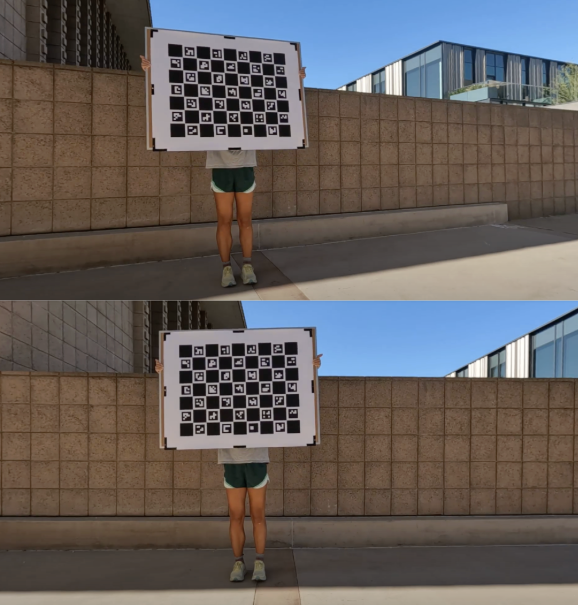
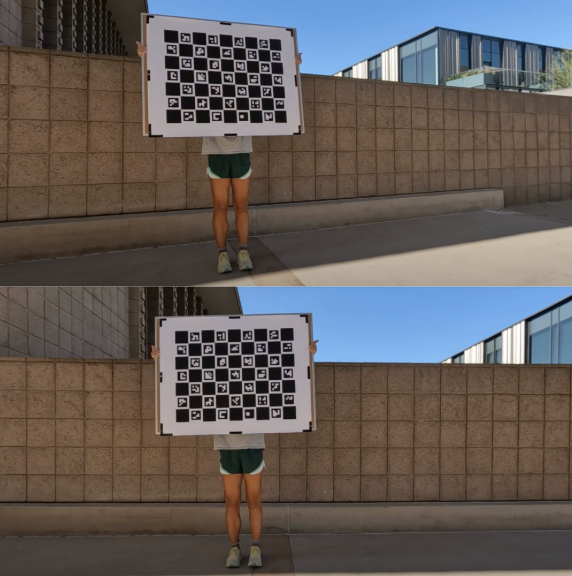
Built site for gh-pages

diff --git a/index.html b/index.html
@@ -181,7 +181,7 @@ ul.task-list li input[type="checkbox"] {
 <div class="experience-image">
 <p><img src="images/clinicpresentation.jpg" class="img-fluid"></p>
 <div class="image-caption">
-<p>Me and my team mate next to our poster board during Clinic Presentation Day</p>
+<p>Me and my teammate next to our poster board during Clinic Presentation Day</p>
 </div>
 </div>
 <section id="amazon-lab126" class="level3">
@@ -248,7 +248,7 @@ ul.task-list li input[type="checkbox"] {
 <div class="experience-image">
 <p><img src="images/hammer.jpg" class="img-fluid"></p>
 <div class="image-caption">
-<p>My hammer that all Engineers make and that machine shop proctors instruct</p>
+<p>Holding the E4 hammer</p>
 </div>
 </div>
 <section id="harvey-mudd-college-machine-shop" class="level3">
@@ -270,7 +270,7 @@ ul.task-list li input[type="checkbox"] {
 <div class="experience-image">
 <p><img src="images/LAIRhero.jpg" class="img-fluid"></p>
 <div class="image-caption">
-<p>Me holding the customized checkerboard we used during camera calibration.</p>
+<p>Calibrating the cameras</p>
 </div>
 </div>
 <section id="harvey-mudd-college-lab-for-autonomous-and-intelligent-robotics-lair" class="level3">
@@ -295,7 +295,7 @@ ul.task-list li input[type="checkbox"] {
 <div class="experience-image">
 <p><img src="images/TPhero.jpg" class="img-fluid"></p>
 <div class="image-caption">
-<p>Your tiny caption text here</p>
+<p>Rendering of our CAD model</p>
 </div>
 </div>
 <section id="microplastic-detector" class="level3">
@@ -318,7 +318,7 @@ ul.task-list li input[type="checkbox"] {
 <div class="experience-image">
 <p><img src="images/cpshero.jpg" class="img-fluid"></p>
 <div class="image-caption">
-<p>Your tiny caption text here</p>
+<p>The device recognizing a door handle and deploying fabric</p>
 </div>
 </div>
 <section id="door-handle-hero" class="level3">
@@ -330,9 +330,8 @@ ul.task-list li input[type="checkbox"] {
 <p>October - November 2025</p>
 </div>
 <ul>
-<li>Co-supervised up to 12 students per shift in a student-run machine shop, ensuring safety, efficiency, and adherence to proper machining protocols</li>
-<li>Instructed students on how to properly use machines such as the mill, lathe, and vertical band saw for coursework and individual projects</li>
-<li>Mentored 50 engineering students in the making of a hammer for the required Engineering and Design course every semester</li>
+<li>Designed</li>
+<li></li>
 </ul>
 <p><a href="CPS.html" class="learn-more-button">Learn More →</a></p>
 </section>
@@ -341,7 +340,7 @@ ul.task-list li input[type="checkbox"] {
 <div class="experience-image">
 <p><img src="images/fundamentalshero.jpg" class="img-fluid"></p>
 <div class="image-caption">
-<p>Your tiny caption text here</p>
+<p>Final rendering of our product on a nightstand</p>
 </div>
 </div>
 <section id="somnia-sleep-collection" class="level3">
@@ -353,7 +352,7 @@ ul.task-list li input[type="checkbox"] {
 <p>September - October 2025</p>
 </div>
 <ul>
-<li>Established end-to-end workflow in DeepLabCut to extrapolate data from recording skateboarders using 3D calibration</li>
+<li></li>
 <li>Performed inverse dynamics to measure kinematic forces exerted on joints for a final research report from the acquired data</li>
 </ul>
 <p><a href="IDEFundamentals.html" class="learn-more-button">Learn More →</a></p>
@@ -363,7 +362,7 @@ ul.task-list li input[type="checkbox"] {
 <div class="experience-image">
 <p><img src="images/e171hero.jpg" class="img-fluid"></p>
 <div class="image-caption">
-<p>Your tiny caption text here</p>
+<p>N-DOF system model</p>
 </div>
 </div>
 <section id="bladed-disk-simulation" class="level3">
@@ -384,9 +383,9 @@ ul.task-list li input[type="checkbox"] {
 </div>
 <div class="experience-item">
 <div class="experience-image">
-<p><img src="images/CityOfHope.JPG" class="img-fluid"></p>
+<p><img src="images/LCAhero.jpg" class="img-fluid"></p>
 <div class="image-caption">
-<p>Your tiny caption text here</p>
+<p>Life Cycle Analysis model</p>
 </div>
 </div>
 <section id="life-cycle-analysis-of-grand-and-electric-pianos" class="level3">
@@ -398,9 +397,8 @@ ul.task-list li input[type="checkbox"] {
 <p>March 2024 - May 2024</p>
 </div>
 <ul>
-<li>Decreased workflow time by 50% by developing python script to convert information from an audio file to 3D human models</li>
-<li>Improved the spatial audio performance of the Echo by simulating human trajectories in model rooms to observe sound flow</li>
-<li>Led a team of three students, coordinated weekly liaison meetings, managed project reporting, and delivered impactful presentations to stakeholders</li>
+<li>Used production software SimaPro to create manufacutring and use trees and LCAs</li>
+<li>Gained a deeper understanding of designing for sustainability</li>
 </ul>
 <p><a href="PianoLCA.html" class="learn-more-button">Learn More →</a></p>
 </section>
@@ -409,7 +407,7 @@ ul.task-list li input[type="checkbox"] {
 <div class="experience-image">
 <p><img src="images/e80hero.jpg" class="img-fluid"></p>
 <div class="image-caption">
-<p>My teammates with our final AUV during deployment at Dana Point.</p>
+<p>My teammates with our final AUV during deployment at Dana Point</p>
 </div>
 </div>
 <section id="autonomous-underwater-vehicle" class="level3">
@@ -421,9 +419,8 @@ ul.task-list li input[type="checkbox"] {
 <p>January 2022 - May 2022</p>
 </div>
 <ul>
-<li>Decreased workflow time by 50% by developing python script to convert information from an audio file to 3D human models</li>
-<li>Improved the spatial audio performance of the Echo by simulating human trajectories in model rooms to observe sound flow</li>
-<li>Led a team of three students, coordinated weekly liaison meetings, managed project reporting, and delivered impactful presentations to stakeholders</li>
+<li>Designed and built an Autonomous Underwater Vehicle (AUV) equipped with a pressure sensor, a temperature sensor, and a microphone</li>
+<li>Worked with a team of three other engineering students</li>
 </ul>
 <p><a href="E80.html" class="learn-more-button">Learn More →</a></p>
 </section>
@@ -432,7 +429,7 @@ ul.task-list li input[type="checkbox"] {
 <h2 data-anchor-id="contact">Contact</h2>
 <div class="contact-container">
 <div class="contact-content">
-<p>Thanks for stopping by! Let’s connect</p>
+<p>Thanks for stopping by. Let’s connect</p>
 <div class="contact-layout">
 <div class="contact-image">
 <p><img src="images/gradphoto.jpg" class="img-fluid"></p>
@@ -444,7 +441,7 @@ ul.task-list li input[type="checkbox"] {
 </div>
 <div class="contact-item">
 <p><strong>LinkedIn</strong></p>
-<p><a href="https://linkedin.com/in/claudinanez" target="_blank">linkedin.com/in/claudinanez</a></p>
+<p><a href="https://linkedin.com/in/claudiananez" target="_blank">linkedin.com/in/claudinanez</a></p>
 </div>
 </div>
 </div>
@@ -525,7 +522,7 @@ ul.task-list li input[type="checkbox"] {
     }
       var localhostRegex = new RegExp(/^(?:http|https):\/\/localhost\:?[0-9]*\//);
       var mailtoRegex = new RegExp(/^mailto:/);
-        var filterRegex = new RegExp('/' + window.location.host + '/');
+        var filterRegex = new RegExp("https:\/\/claudiananez\.github\.io\/My-Portfolio-Website\/");
       var isInternal = (href) => {
           return filterRegex.test(href) || localhostRegex.test(href) || mailtoRegex.test(href);
       }

diff --git a/motiv.html b/motiv.html
@@ -145,44 +145,35 @@ ul.task-list li input[type="checkbox"] {
 
 <section id="about-this-role" class="level2">
 <h2 class="anchored" data-anchor-id="about-this-role">About This Role</h2>
-<p>Motiv Electric Trucks (Now under the Workhorse name) is a leading manufacturer of medium-duty commercial all-electric trucks and buses. During the summer of 2023, I was a R&amp;D intern where I designed charging architecture incorporating electronic and mechanical elements for AC power distribution. During the development process, I leveraged design requirements and component library management while working on BOM development. Specifically, I gained experience in the PCB design and manufacturing process working with Altium Designer.</p>
-</section>
-<section id="project-gallery" class="level2">
-<h2 class="anchored" data-anchor-id="project-gallery">Project Gallery</h2>
-<div class="image-gallery">
+<p>Motiv Electric Trucks (Now under the Workhorse name) is a leading manufacturer of medium-duty commercial all-electric trucks and buses.</p>
+<p>During the summer of 2023, I was a R&amp;D intern where I designed charging architecture incorporating electronic and mechanical elements for AC power distribution.</p>
 <div class="quarto-figure quarto-figure-center">
 <figure class="figure">
-<p><img src="images/MotivLab.jpg" class="img-fluid figure-img"></p>
-<figcaption>Me Testing in the Lab</figcaption>
+<p><img src="images/motivrender.jpg" class="img-fluid figure-img"></p>
+<figcaption>Motiv render with arrows indicating location of dual power ports</figcaption>
 </figure>
 </div>
-<div class="quarto-figure quarto-figure-center">
-<figure class="figure">
-<p><img src="images/MotivPresenting.jpg" class="img-fluid figure-img"></p>
-<figcaption>Me presenting my final schematic to the team</figcaption>
-</figure>
-</div>
+<p>During the development process, I leveraged design requirements and component library management while working on the bill of materials development. Specifically, I gained experience in the PCB design and manufacturing process working with Altium Designer.</p>
 <div class="quarto-figure quarto-figure-center">
 <figure class="figure">
 <p><img src="images/PCB.jpg" class="img-fluid figure-img"></p>
-<figcaption>Final PCB before assembly</figcaption>
+<figcaption>Final PCB Before Assembly</figcaption>
 </figure>
 </div>
+<p>After I had printed my design, I learned how to assemble a PCB and test it in the lab.</p>
+<div class="quarto-figure quarto-figure-center">
+<figure class="figure">
+<p><img src="images/MotivLab.jpg" class="img-fluid figure-img"></p>
+<figcaption>Testing in the Lab</figcaption>
+</figure>
 </div>
-</section>
-<section id="key-projects" class="level2">
-<h2 class="anchored" data-anchor-id="key-projects">Key Projects</h2>
-<ul>
-<li>Project 1 details</li>
-<li>Project 2 details</li>
-</ul>
-</section>
-<section id="skills-used" class="level2">
-<h2 class="anchored" data-anchor-id="skills-used">Skills Used</h2>
-<ul>
-<li>Skill 1</li>
-<li>Skill 2</li>
-</ul>
+<p>At the end of my internship, I delivered a presentation of my process to the team.</p>
+<div class="quarto-figure quarto-figure-center">
+<figure class="figure">
+<p><img src="images/MotivPresenting.jpg" class="img-fluid figure-img"></p>
+<figcaption>Presenting Schematic to the Team</figcaption>
+</figure>
+</div>
 <p><a href="index.html#professional-experience">← Back to Portfolio</a></p>
 
 
@@ -262,7 +253,7 @@ ul.task-list li input[type="checkbox"] {
     }
       var localhostRegex = new RegExp(/^(?:http|https):\/\/localhost\:?[0-9]*\//);
       var mailtoRegex = new RegExp(/^mailto:/);
-        var filterRegex = new RegExp('/' + window.location.host + '/');
+        var filterRegex = new RegExp("https:\/\/claudiananez\.github\.io\/My-Portfolio-Website\/");
       var isInternal = (href) => {
           return filterRegex.test(href) || localhostRegex.test(href) || mailtoRegex.test(href);
       }

diff --git a/PianoLCA.html b/PianoLCA.html
@@ -147,24 +147,13 @@ ul.task-list li input[type="checkbox"] {
 <h2 class="anchored" data-anchor-id="overview">Overview</h2>
 <div class="project-overview">
 <div class="project-text">
-<p>Ever since I was little, music has been one of my biggest passions. I have been playing classical piano for 17 years and</p>
+<p>Music has always been one of my biggest passions. I play classical piano, and have been writing and producing music for many years.</p>
 <p><strong>Duration:</strong> March - May 2024 <strong>Team Size:</strong> Solo Project</p>
 </div>
-<section id="process" class="level2">
-<h2 class="anchored" data-anchor-id="process">Process</h2>
-<ol type="1">
-<li>Researched the differences between electric and<br>
-</li>
-</ol>
-<ul>
-<li>Achievement 2 with detailed explanation</li>
-<li>Achievement 3 with detailed explanation</li>
-</ul>
-</section>
-<section id="resources-links" class="level2">
-<h2 class="anchored" data-anchor-id="resources-links">Resources &amp; Links</h2>
-<p><strong>View the full project report:</strong> <a href="Files/Piano LCA Sustainable Design.pdf" class="pdf-link" target="_blank">Download PDF</a></p>
-<p><strong>Embedded PDF Viewer:</strong></p>
+<section id="final-poster" class="level2">
+<h2 class="anchored" data-anchor-id="final-poster">Final Poster</h2>
+<p><strong>View the full final poster:</strong> <a href="Files/Piano LCA Sustainable Design.pdf" class="pdf-link" target="_blank">Download PDF</a></p>
+<p><strong>Final Poster:</strong></p>
 <iframe src="Files/Piano LCA Sustainable Design.pdf" width="100%" height="600px" style="border: 1px solid #ccc; border-radius: 5px;">
 </iframe>
 <hr>
@@ -249,7 +238,7 @@ ul.task-list li input[type="checkbox"] {
     }
       var localhostRegex = new RegExp(/^(?:http|https):\/\/localhost\:?[0-9]*\//);
       var mailtoRegex = new RegExp(/^mailto:/);
-        var filterRegex = new RegExp('/' + window.location.host + '/');
+        var filterRegex = new RegExp("https:\/\/claudiananez\.github\.io\/My-Portfolio-Website\/");
       var isInternal = (href) => {
           return filterRegex.test(href) || localhostRegex.test(href) || mailtoRegex.test(href);
       }

diff --git a/Amazon126.html b/Amazon126.html
@@ -152,13 +152,13 @@ ul.task-list li input[type="checkbox"] {
 <strong>Role:</strong> Team Lead</p>
 </div>
 <section id="technical-details" class="level2">
-<h2 class="anchored" data-anchor-id="technical-details">## Technical Details</h2>
-<section id="technologies-used" class="level3">
-<h3 class="anchored" data-anchor-id="technologies-used">Technologies Used</h3>
+<h2 class="anchored" data-anchor-id="technical-details">Technical Details</h2>
+<section id="software-used" class="level3">
+<h3 class="anchored" data-anchor-id="software-used">Software Used</h3>
 <ul>
-<li>Technology 1</li>
-<li>Technology 2</li>
-<li>Technology 3</li>
+<li>Python</li>
+<li>Unity</li>
+<li>Monday.com</li>
 </ul>
 </section>
 </section>
@@ -247,7 +247,7 @@ ul.task-list li input[type="checkbox"] {
     }
       var localhostRegex = new RegExp(/^(?:http|https):\/\/localhost\:?[0-9]*\//);
       var mailtoRegex = new RegExp(/^mailto:/);
-        var filterRegex = new RegExp('/' + window.location.host + '/');
+        var filterRegex = new RegExp("https:\/\/claudiananez\.github\.io\/My-Portfolio-Website\/");
       var isInternal = (href) => {
           return filterRegex.test(href) || localhostRegex.test(href) || mailtoRegex.test(href);
       }

diff --git a/CPS.html b/CPS.html
@@ -147,7 +147,7 @@ ul.task-list li input[type="checkbox"] {
 <h2 class="anchored" data-anchor-id="overview">Overview</h2>
 <div class="project-overview">
 <div class="project-text">
-<p>Cyber Physical Systems is the second module in the IDE program.</p>
+<p>Cyber Physical Systems is the second module in the IDE program. For this project hellow</p>
 <p><strong>Duration:</strong> October 2025 - November 2025 <strong>Team Size:</strong> 3 people<br>
 <strong>Role:</strong> Technical Lead</p>
 </div>
@@ -289,7 +289,7 @@ ul.task-list li input[type="checkbox"] {
     }
       var localhostRegex = new RegExp(/^(?:http|https):\/\/localhost\:?[0-9]*\//);
       var mailtoRegex = new RegExp(/^mailto:/);
-        var filterRegex = new RegExp('/' + window.location.host + '/');
+        var filterRegex = new RegExp("https:\/\/claudiananez\.github\.io\/My-Portfolio-Website\/");
       var isInternal = (href) => {
           return filterRegex.test(href) || localhostRegex.test(href) || mailtoRegex.test(href);
       }

diff --git a/E171.html b/E171.html
@@ -250,7 +250,7 @@ ul.task-list li input[type="checkbox"] {
     }
       var localhostRegex = new RegExp(/^(?:http|https):\/\/localhost\:?[0-9]*\//);
       var mailtoRegex = new RegExp(/^mailto:/);
-        var filterRegex = new RegExp('/' + window.location.host + '/');
+        var filterRegex = new RegExp("https:\/\/claudiananez\.github\.io\/My-Portfolio-Website\/");
       var isInternal = (href) => {
           return filterRegex.test(href) || localhostRegex.test(href) || mailtoRegex.test(href);
       }

diff --git a/E80.html b/E80.html
@@ -290,7 +290,7 @@ ul.task-list li input[type="checkbox"] {
     }
       var localhostRegex = new RegExp(/^(?:http|https):\/\/localhost\:?[0-9]*\//);
       var mailtoRegex = new RegExp(/^mailto:/);
-        var filterRegex = new RegExp('/' + window.location.host + '/');
+        var filterRegex = new RegExp("https:\/\/claudiananez\.github\.io\/My-Portfolio-Website\/");
       var isInternal = (href) => {
           return filterRegex.test(href) || localhostRegex.test(href) || mailtoRegex.test(href);
       }

diff --git a/IDEFundamentals.html b/IDEFundamentals.html
@@ -291,7 +291,7 @@ ul.task-list li input[type="checkbox"] {
     }
       var localhostRegex = new RegExp(/^(?:http|https):\/\/localhost\:?[0-9]*\//);
       var mailtoRegex = new RegExp(/^mailto:/);
-        var filterRegex = new RegExp('/' + window.location.host + '/');
+        var filterRegex = new RegExp("https:\/\/claudiananez\.github\.io\/My-Portfolio-Website\/");
       var isInternal = (href) => {
           return filterRegex.test(href) || localhostRegex.test(href) || mailtoRegex.test(href);
       }

diff --git a/LAIR.html b/LAIR.html
@@ -239,7 +239,7 @@ ul.task-list li input[type="checkbox"] {
     }
       var localhostRegex = new RegExp(/^(?:http|https):\/\/localhost\:?[0-9]*\//);
       var mailtoRegex = new RegExp(/^mailto:/);
-        var filterRegex = new RegExp('/' + window.location.host + '/');
+        var filterRegex = new RegExp("https:\/\/claudiananez\.github\.io\/My-Portfolio-Website\/");
       var isInternal = (href) => {
           return filterRegex.test(href) || localhostRegex.test(href) || mailtoRegex.test(href);
       }

diff --git a/TP.html b/TP.html
@@ -204,7 +204,7 @@ ul.task-list li input[type="checkbox"] {
     }
       var localhostRegex = new RegExp(/^(?:http|https):\/\/localhost\:?[0-9]*\//);
       var mailtoRegex = new RegExp(/^mailto:/);
-        var filterRegex = new RegExp('/' + window.location.host + '/');
+        var filterRegex = new RegExp("https:\/\/claudiananez\.github\.io\/My-Portfolio-Website\/");
       var isInternal = (href) => {
           return filterRegex.test(href) || localhostRegex.test(href) || mailtoRegex.test(href);
       }

diff --git a/about.html b/about.html
@@ -220,7 +220,7 @@ ul.task-list li input[type="checkbox"] {
     }
       var localhostRegex = new RegExp(/^(?:http|https):\/\/localhost\:?[0-9]*\//);
       var mailtoRegex = new RegExp(/^mailto:/);
-        var filterRegex = new RegExp('/' + window.location.host + '/');
+        var filterRegex = new RegExp("https:\/\/claudiananez\.github\.io\/My-Portfolio-Website\/");
       var isInternal = (href) => {
           return filterRegex.test(href) || localhostRegex.test(href) || mailtoRegex.test(href);
       }

diff --git a/styles.css b/styles.css
@@ -67,7 +67,7 @@ body {
   justify-content: flext-start;
   
   padding: 0 10%;
-  height: 500px;
+  height: 700px;
 }
 
 .hero::before {
@@ -279,8 +279,9 @@ body {
 }
 
 .experience-image img {
+  margin-top: 25px;
   width: 100%;
-  height: 250px;
+  height: 350px;
   object-fit: cover;
   border-radius: 8px;
   display: block;
@@ -289,7 +290,7 @@ body {
 .image-caption {
   font-size: 0.75rem;
   color: #888;
-  margin-top: 0.5rem;
+  margin-top: 2.5rem;
   font-style: italic;
   text-align: center;
 }
